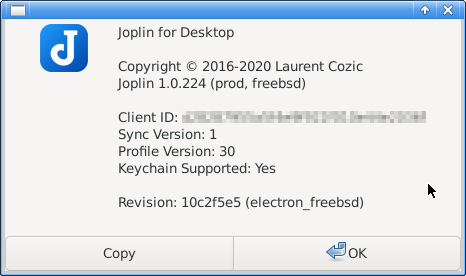
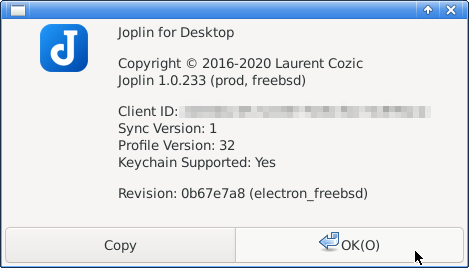
Update target version to 1.0.233. Also add a note on 1.1.x in CJK section

diff --git a/content/playing-with-bsd/application/howto-use-joplin-on-freebsd.md b/content/playing-with-bsd/application/howto-use-joplin-on-freebsd.md
@@ -1,7 +1,7 @@
 ---
 title: "How to use Joplin desktop app on FreeBSD"
 date: 2020-01-15T20:26:00+09:00
-lastmod: 2020-06-24T18:03:00+09:00
+lastmod: 2020-09-12T13:23:00+09:00
 draft: false
 tags: [ "application", "installation", "freebsd", "font" ]
 toc: true
@@ -11,8 +11,8 @@ This is a quick note on how I build and use the latest Joplin desktop app on Fre
 For my initial exploration of Joplin on FreeBSD, please refer to the [previous post](/playing-with-bsd/application/joplin-on-freebsd).
 
 ## Target Version
-The current target version of this article is Joplin Electron release v1.0.224 (June 2020).  
-I confirmed that the app could be built using my fork at the tag [freebsd-20200624](https://github.com/genneko/joplin/releases/tag/freebsd-20200624).
+The current target version of this article is Joplin Electron release v1.0.233 (Aug 2020).  
+I confirmed that the app could be built using my fork at the tag [freebsd-20200802](https://github.com/genneko/joplin/releases/tag/freebsd-20200802).
 ![Joplin Version](/images/howto-use-joplin-on-freebsd/JoplinVersion.png)
 
 ## Building Joplin
@@ -36,7 +36,7 @@ I take the following steps to build Joplin desktop on my FreeBSD 12.1-RELEASE sy
    ```
    > **NOTE**  
    > If the head of the branch cannot be built (it occurs from time to time), please try the tagged version which I confirmed to be built.  
-   > As of 24 June 2020, the latest confirmed tag is [freebsd-20200624](https://github.com/genneko/joplin/releases/tag/freebsd-20200624) and it can be checked out as follows:  
+   > As of 2 Aug 2020, the latest confirmed tag is [freebsd-20200802](https://github.com/genneko/joplin/releases/tag/freebsd-20200802) and it can be checked out as follows:  
    > ```
    > git checkout freebsd-20200624
    > ```
@@ -79,6 +79,7 @@ I take the following steps to build Joplin desktop on my FreeBSD 12.1-RELEASE sy
 ## Workaround for LSEP showing up in CJK input methods
 
 _**NOTE:** This is not FreeBSD-specific. But anyway, I wrote it down here for future reference._  
+_**NOTE:** (2020-09-12) The problem seems to have been resolved on Joplin v1.1.x with the editor component changed from Ace Editor to CodeMirror. You can try v1.1.1 with the tagged commit [freebsd-v1.1.1-20200912](https://github.com/genneko/joplin/releases/tag/freebsd-v1.1.1-20200912) on my fork, which is a pre-release and I haven't fully tested yet._  
 
 This issue was reported several times as below.
 * [#1210](https://github.com/laurent22/joplin/issues/1210)
@@ -169,3 +170,4 @@ Fortunately, this issue can be worked around by using a [special font](/misc/NoL
 * 2020-05-02: Add a note on electron7-7.2.2.
 * 2020-05-13: Update(Correction) to the note on electron7-7.2.2.
 * 2020-06-24: Update the target version to 1.0.224 and do some cleanup.
+* 2020-09-12: Update the target version to 1.0.233. Also add a note on 1.1.x in the LSEP/CJK section.
